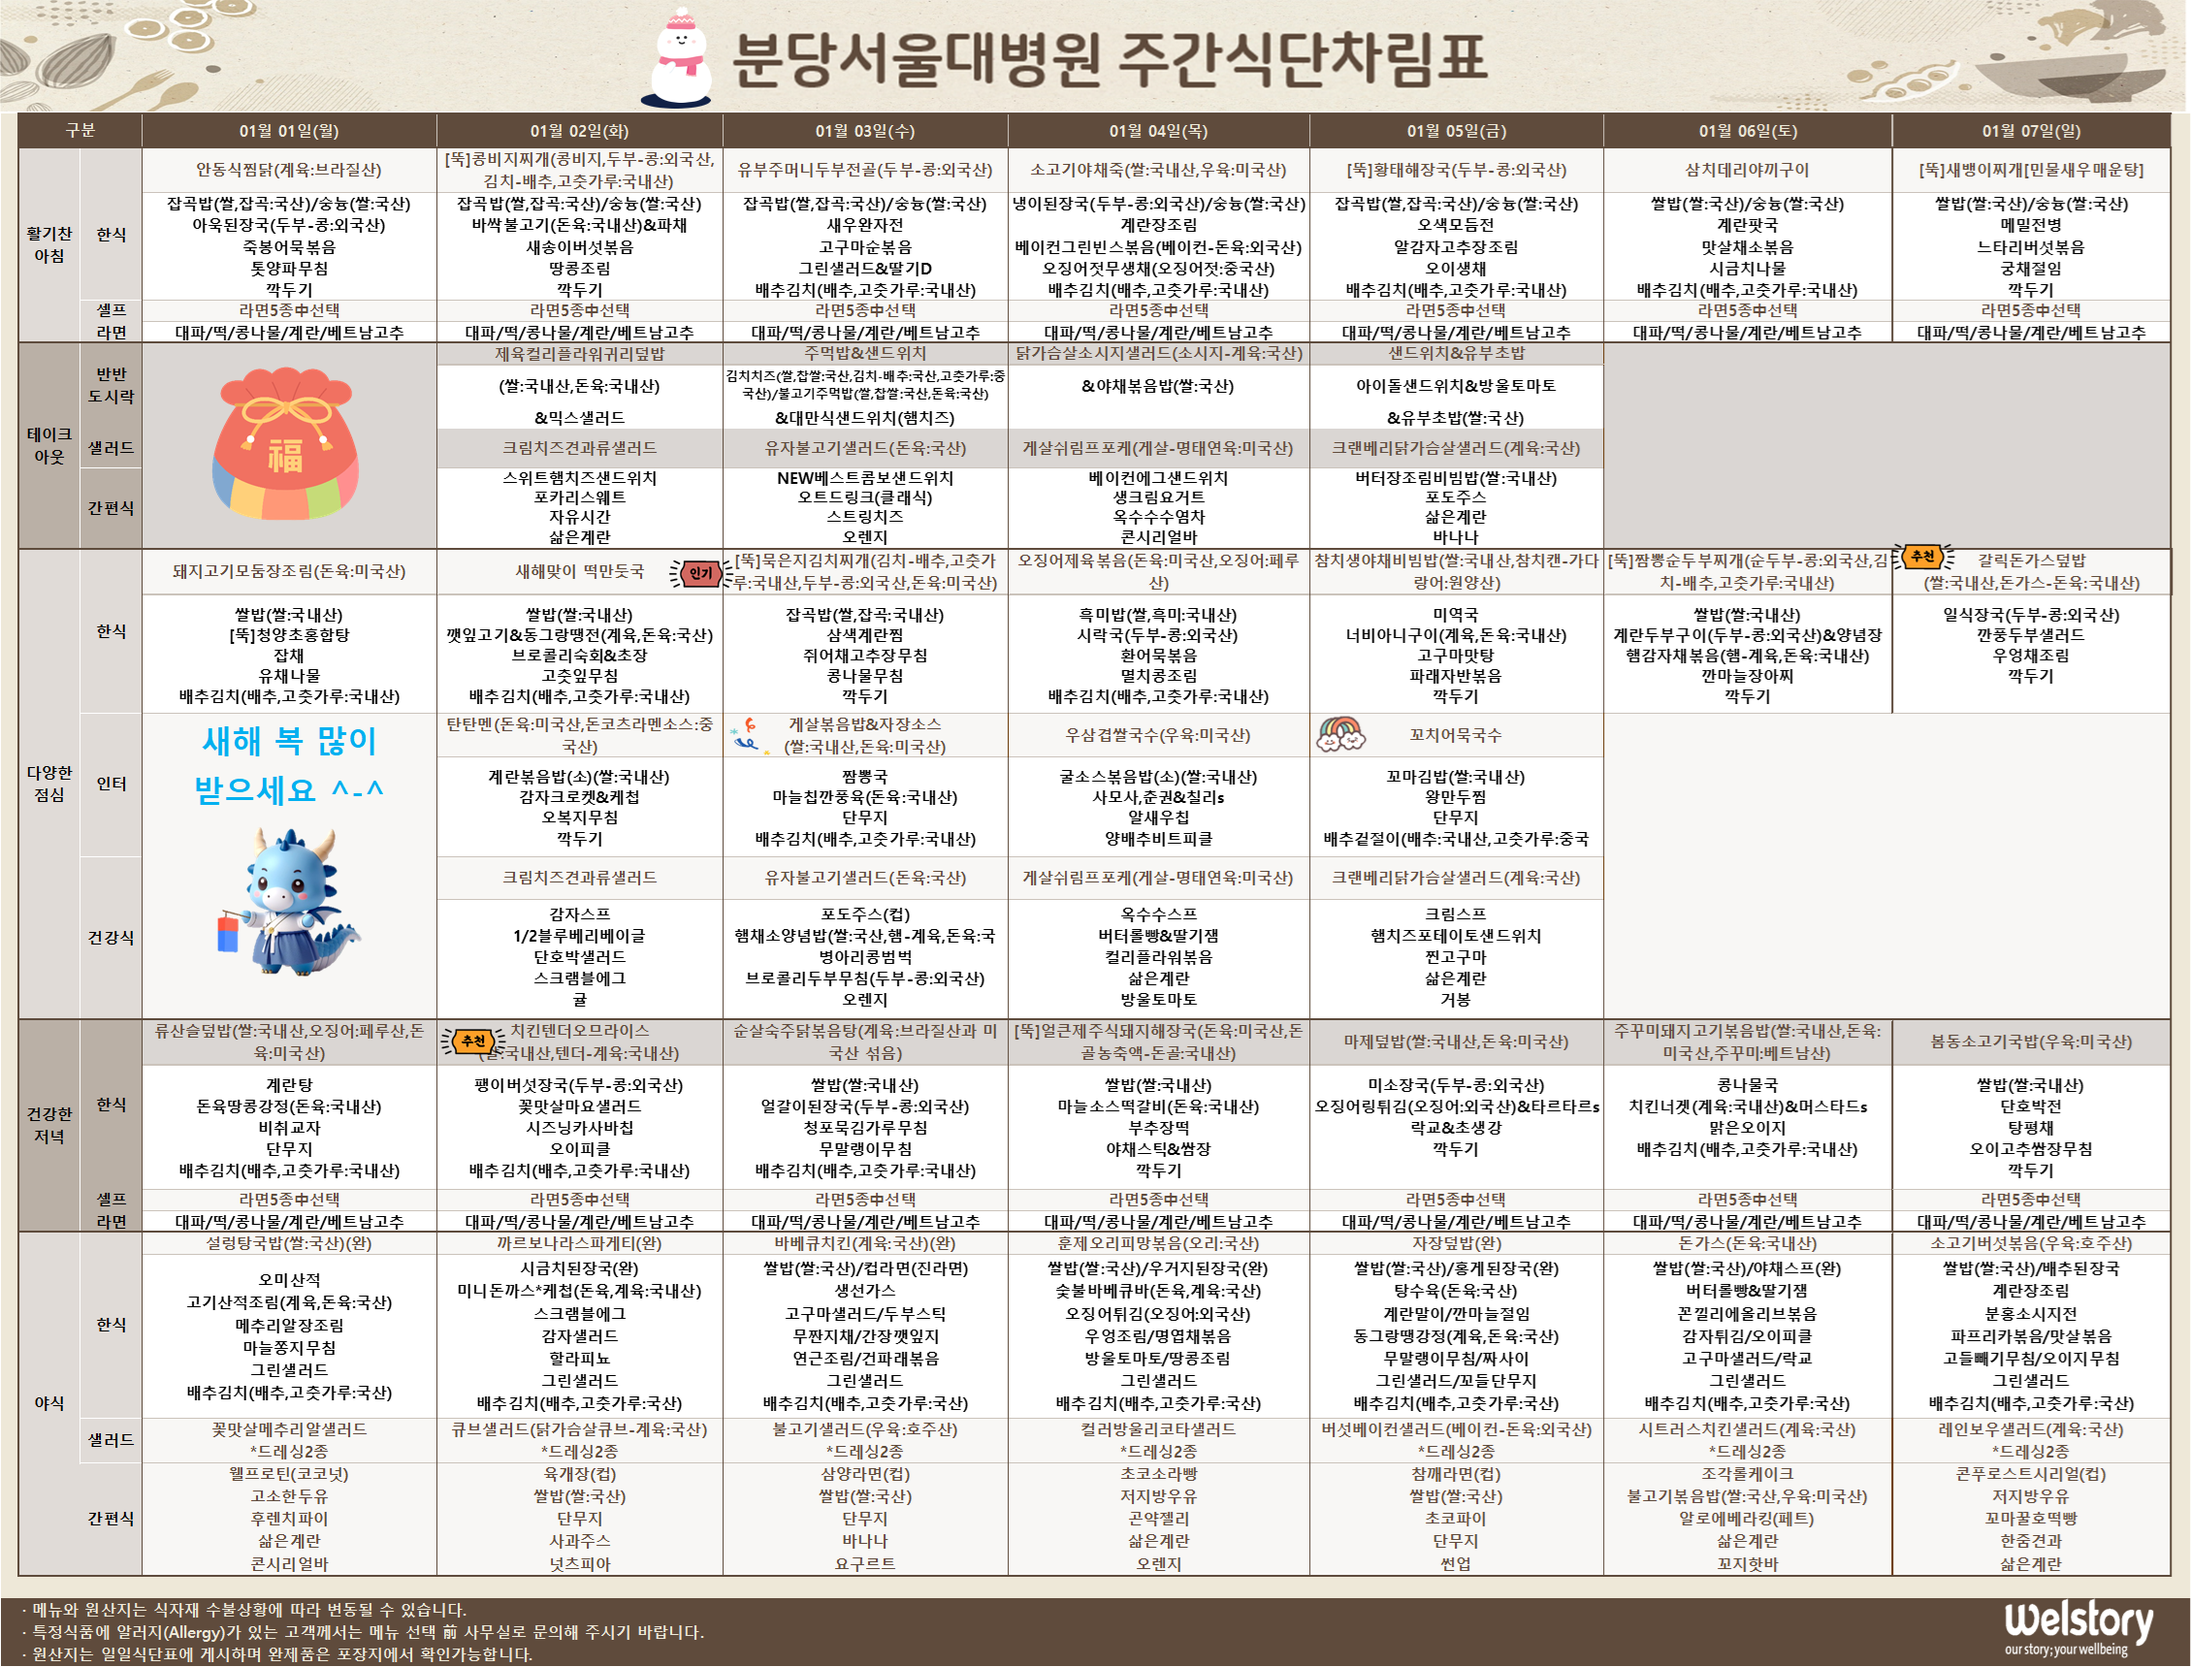
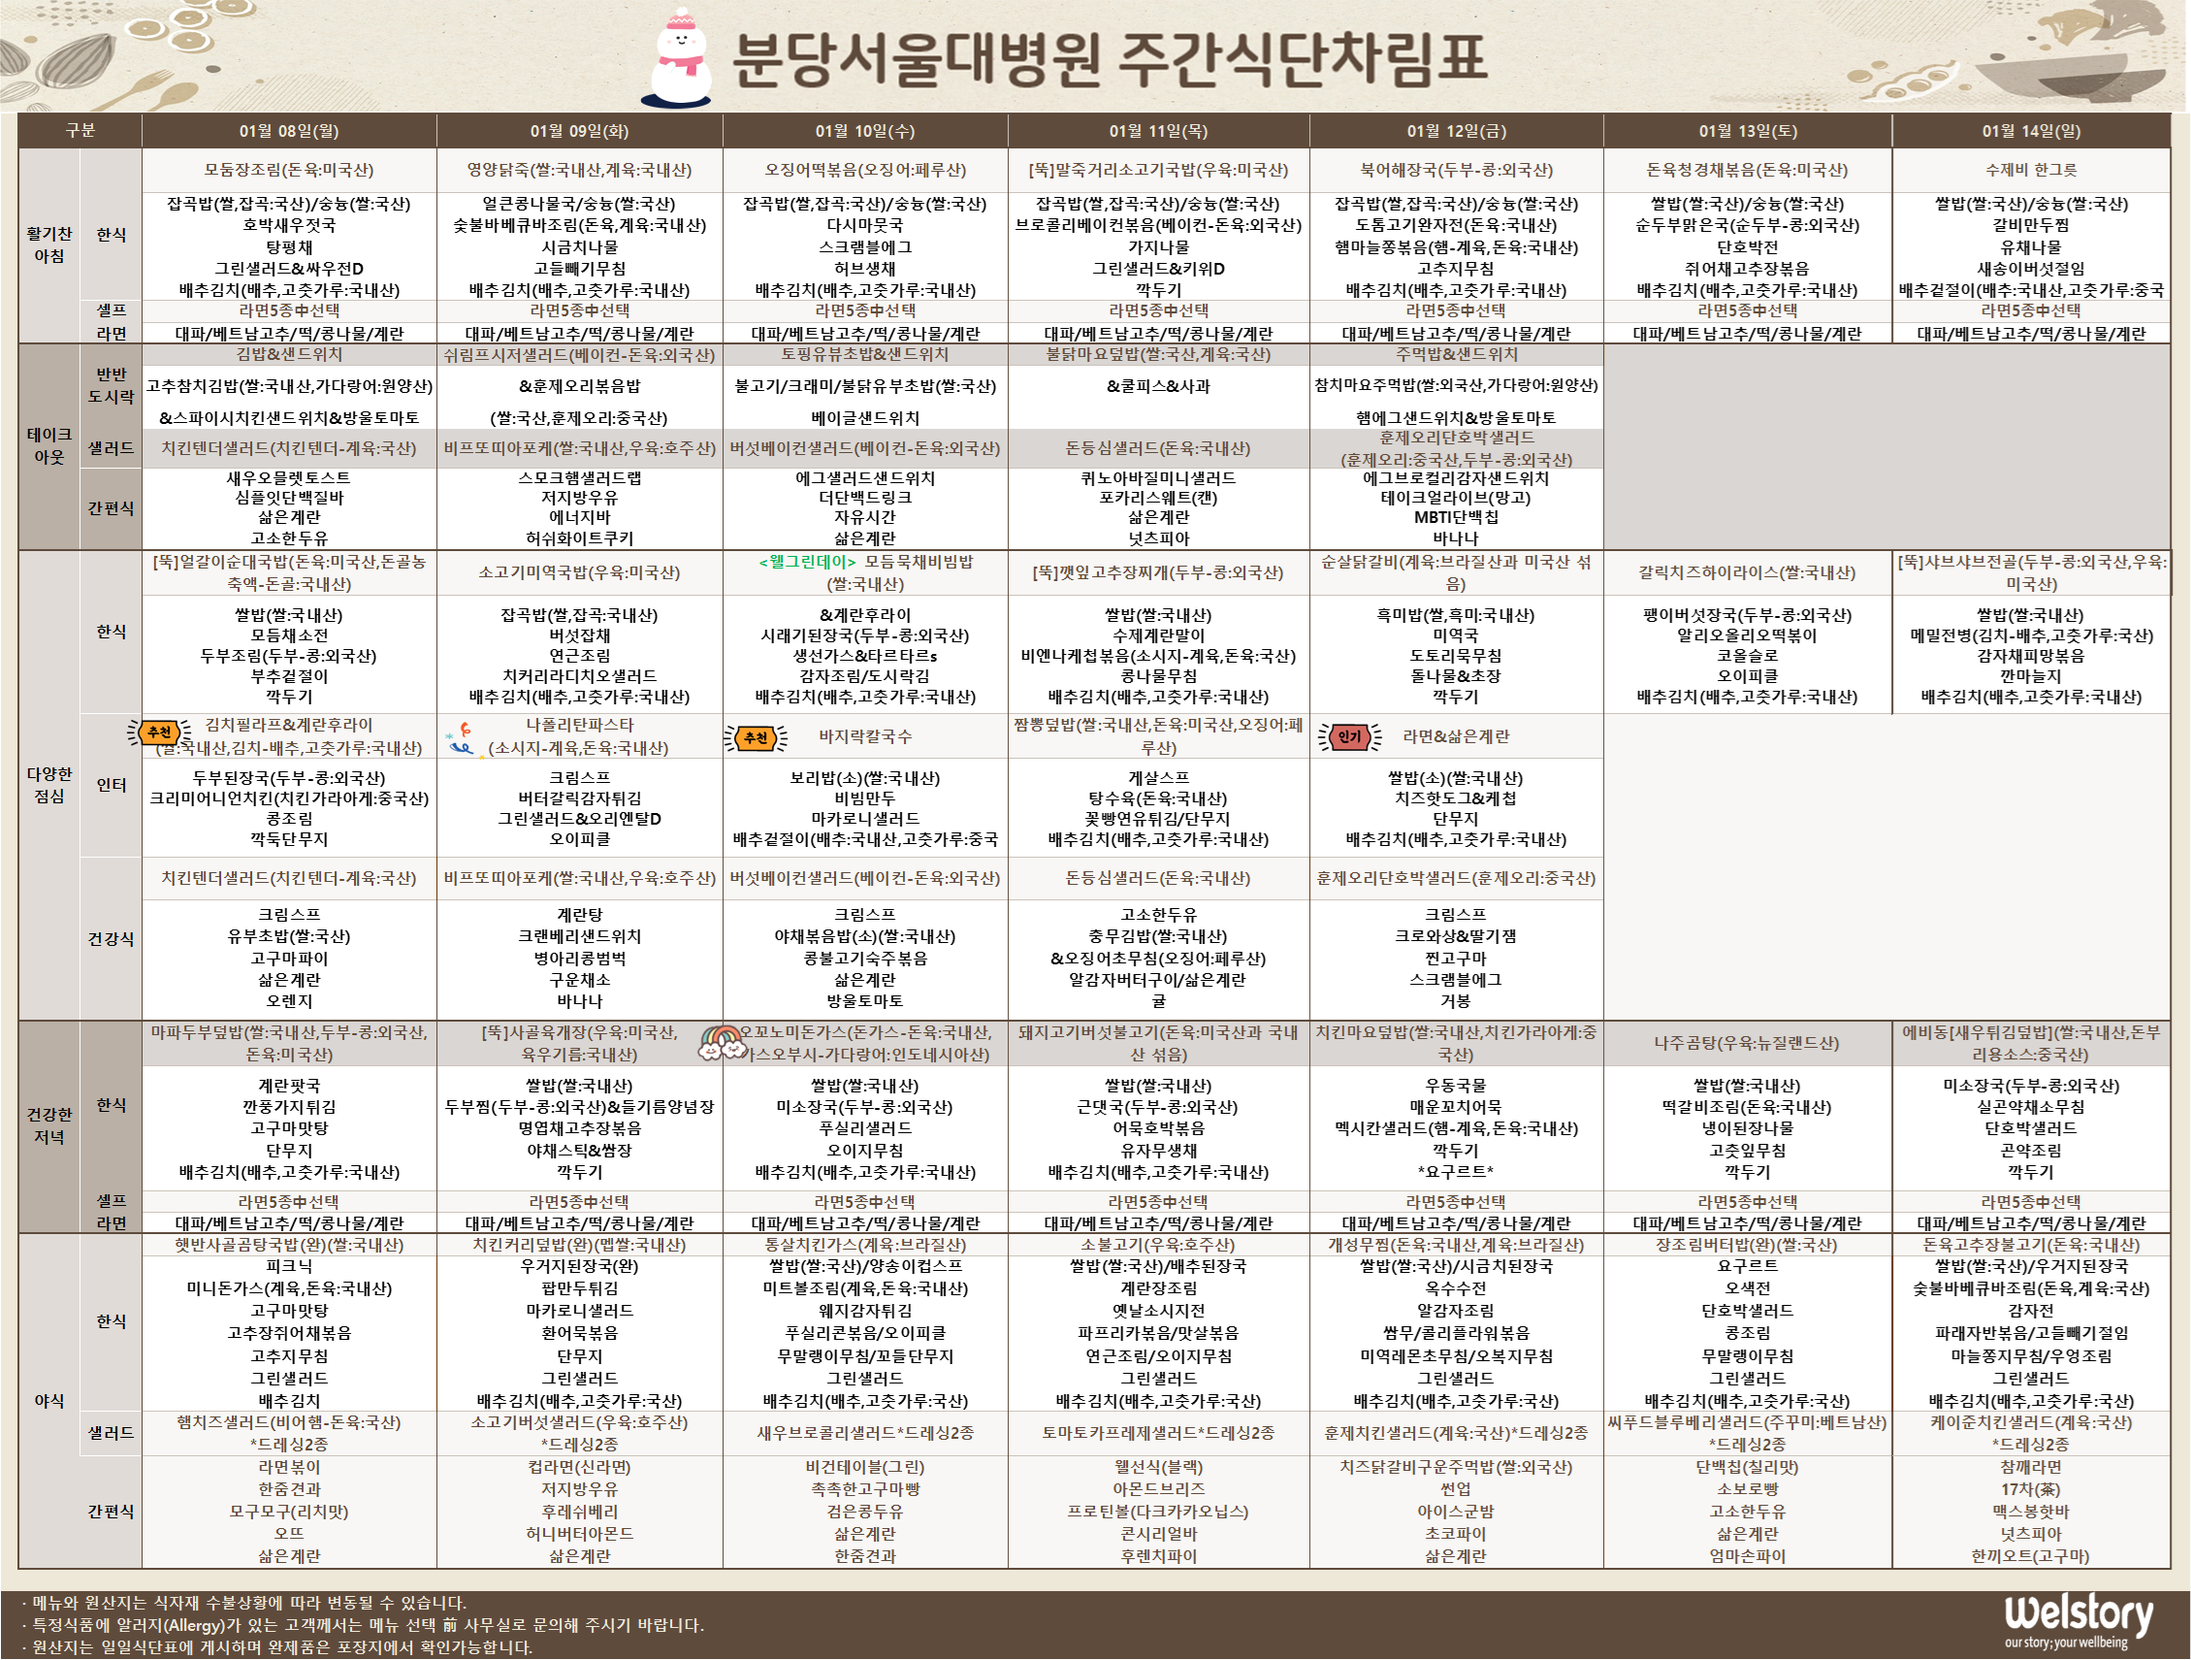
Add files via upload

diff --git a/6/index.html b/6/index.html
@@ -12,12 +12,10 @@
 <h2> 메뉴 업데이트는 주인장 여유가 되면 합니다. (이미지 확대해서 보세요) <br> </h2>
 
 <br>
-<h1> 1월 1주차 </h1>
+<h1> 1월 2주차 </h1>
 <img src="수술.png" width="100%">
 
-<audio src="https://clova-x.github.io/snubhnojo/mu/snow.mp3" autoplay loop></audio>
-
-<h6> Last update 2023/12/29  </h6>  
+<h6> Last update 2024/01/08  </h6>  
 <h1 >맛있게 드세요.  </h1> 
 
 </body>

diff --git a/1/index.html b/1/index.html
@@ -13,15 +13,13 @@
 
 
 <br>
-<h1> 1월 1주차  </h1>
+<h1> 1월 2주차  </h1>
 <img src="1동.png" width="100%">
 
 <br>
 
-<audio src="https://clova-x.github.io/snubhnojo/mu/snow.mp3" autoplay loop></audio>
 
-
-<h6> Last update 2023/12/29  </h6>  
+<h6> Last update 2024/01/08  </h6>  
 <h1 >맛있게 드세요.  </h1> 
 
 </body>

diff --git a/2/index.html b/2/index.html
@@ -14,14 +14,12 @@
 
 
 <br>
-<h1> 1월 1주차  </h1>
+<h1> 1월 2주차  </h1>
 <img src="HIP.png" width="100%">
 
 <br>
 
-<audio src="https://clova-x.github.io/snubhnojo/mu/snow.mp3" autoplay loop></audio>
-
-<h6> Last update 2023/12/29  </h6>  
+<h6> Last update 2024/01/08  </h6>  
 <h1 >맛있게 드세요.  </h1> 
 
 </body>
